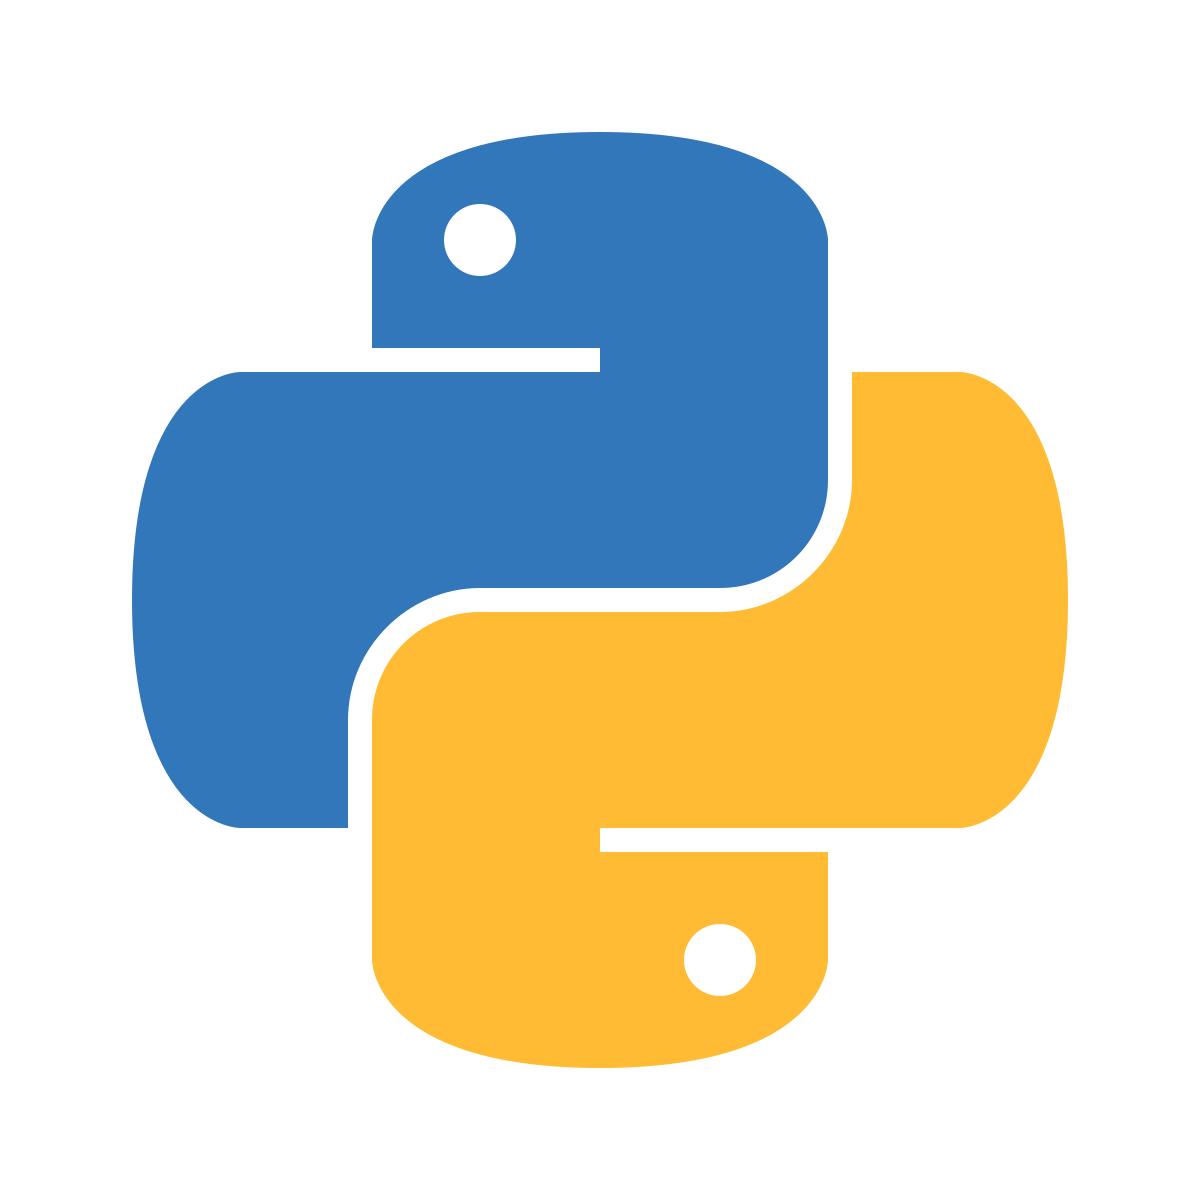
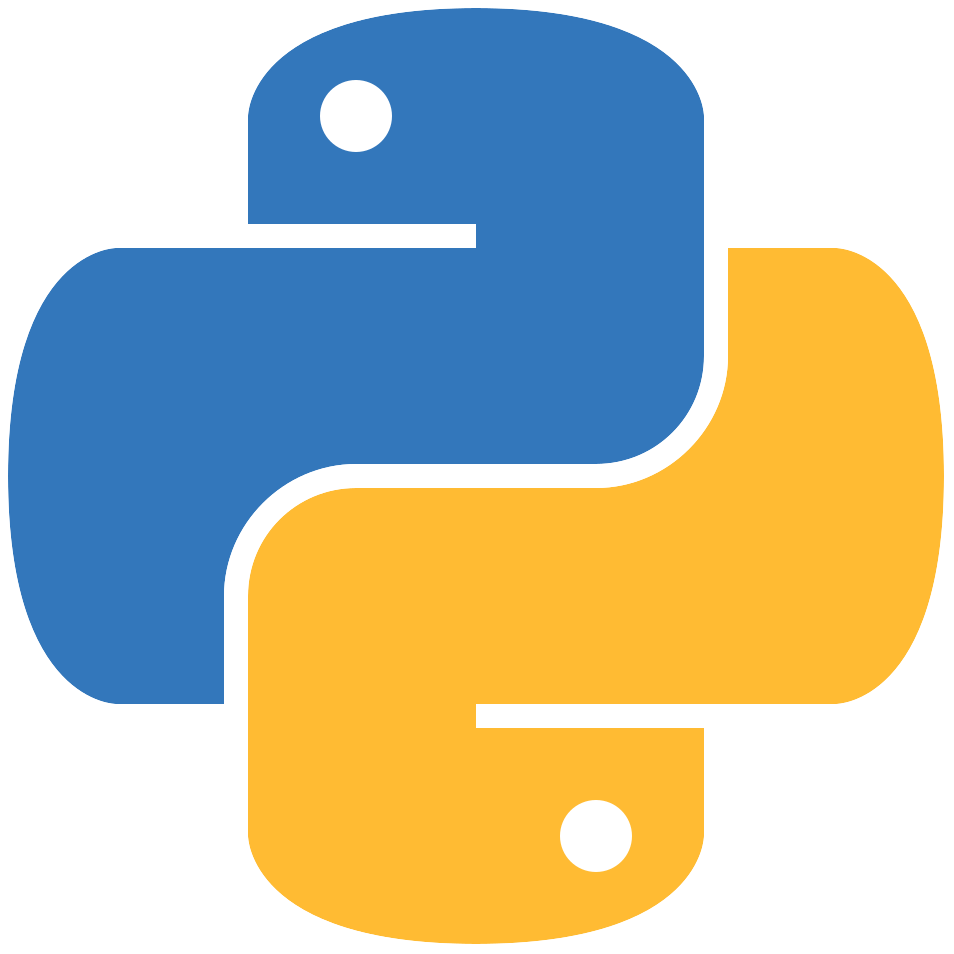
Added some information, shadows and fixed some transitions

Changed region(s): [[0.0, 0.0, 1.0, 1.0]]

diff --git a/style.css b/style.css
@@ -124,25 +124,25 @@ nav a:hover {
 .iconosportada img {
     height: 35px;
     width: 35px;
-    transition: 0.5s ease-in-out;
+    transition: 0.3s ease-in-out;
 }
 
 #iconolinkedin {
-    transition: 0.5s ease-in-out;
+    transition: 0.3s ease-in-out;
 }
 
 #iconolinkedin:hover {
     filter: brightness(75%);
-    transition: 0.5s ease-in-out;
+    transition: 0.3s ease-in-out;
 }
 
 #iconogithub {
-    transition: 0.5s ease-in-out;
+    transition: 0.3s ease-in-out;
 }
 
 #iconogithub:hover {
     filter: brightness(75%);
-    transition: 0.5s ease-in-out;
+    transition: 0.3s ease-in-out;
 }
 
 .fotoportada {
@@ -162,7 +162,7 @@ nav a:hover {
     align-items: center;
     gap: 10px;
     padding: 0;
-    background-color: #636363;
+    background-color: #4e4e4e;
     border-radius: 8px;
     width: 100px;
     height: 50px;
@@ -173,7 +173,7 @@ nav a:hover {
 
 .botoncv:hover {
     background-color: #414141;
-    transition: 0.5s ease-in-out;
+    transition: 0.3s ease-in-out;
 }
 
 .botoncv p{
@@ -228,6 +228,7 @@ nav a:hover {
     font-family: 'Poppins';
     font-size: 46px;
     font-weight: bold;
+    text-shadow: 1px 1px 10px black;
 }
 
 .textosobremi p {
@@ -245,7 +246,7 @@ nav a:hover {
     margin-left: 15px;
     height: 490px;
     border-radius: 10%;
-    box-shadow: 1px 0px 50px #242424d2;
+    box-shadow: rgb(0 0 0 / 30%) 15px 13px 20px 14px;
 }
 
 
@@ -320,7 +321,7 @@ nav a:hover {
     border: 1px solid #ccc;
     background-color: #363636;
     font-family: 'Courier New';
-    box-shadow: 1 0 10px rgba(0, 0, 0, 0.1);
+    box-shadow: 1px 1px 15px black;
     padding: 10px;
     width: 653px;
     height: auto;   
@@ -328,6 +329,7 @@ nav a:hover {
     font-size: 17px;
     z-index: 1;
     transition: display 2s;
+
 }
 
 .desplegableproyecto h1 {
@@ -385,6 +387,7 @@ nav a:hover {
     width: 35px;
     height: 35px;
     border-radius: 2px;
+    filter: drop-shadow(1px 1px 10px rgba(0, 0, 0, 0.596));
 }
 
 
@@ -430,6 +433,7 @@ nav a:hover {
     border-radius: 8px;
     background-color: #363636b7;
     transition: 0.5s ease-in-out;
+    box-shadow: 1px 1px 20px black;
 }
 
 .botontarjeta {
@@ -488,6 +492,7 @@ nav a:hover {
     justify-content: center;
     padding-bottom: 13px;
     padding-top: 10px;
+    box-shadow: 1px 1px 10px black;
 }
 
 .tarjetatemporal h1{
@@ -568,6 +573,7 @@ nav a:hover {
     transition: display 2s;
     justify-content: center;
     align-items: center;
+    box-shadow: 1px 1px 10px black;
 }
 
 .cartascursos h1{

diff --git a/proyectos.html b/proyectos.html
@@ -133,6 +133,7 @@
                                     <div class="tecnologias">
                                         <img src="img/Iconos/html5.png">
                                         <img src="img/Iconos/css.png">
+                                        <img src="img/Iconos/javascript.png">
                                         <img src="img/Iconos/github.png">
                                     </div>
                                 </div>
